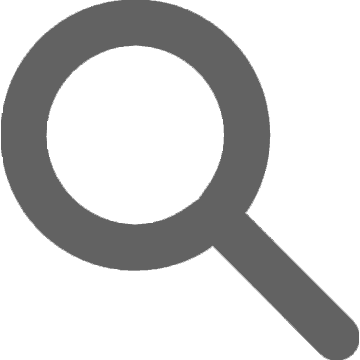
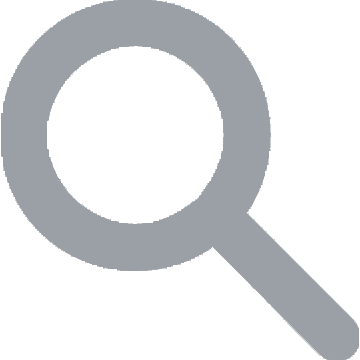
first page 100% done

diff --git a/style.css b/style.css
@@ -1,34 +1,70 @@
-body{
+#bo{
     background: #202124;
 }
-.main{            
-    position: fixed;
-    top: 50%;
-    left: 50%;
+.topr{
+    color: #ffffff;
+    font-family: arial;
+    font-size: 15px;
+    padding-right: 15px;
+    text-decoration: none;
 }
-.logo{
-    position: fixed;
-    top: 30%;
-    left: 50%;
-    transform: translate(-50%, -30%);
+#dots{
+    width: 35px;
+    padding-right: 15px;
 }
-.also{
+#avatar{
+    width: 50px;
+    padding-right: 15px;
+}
+#a1{
+    text-align: right;
+    margin-top: 5px;
+}
+#d2{
+    background-color: #171717;
+    height: 50px;
+    padding: 10px;
+    position: fixed;
+    bottom: 0;
+    left: 0;
+    right: 0;
+}
+.dre{
+    color: #999da2;
+    font-family: arial;
+    font-size: 15px;
+    text-decoration: none;
+    padding: 15px;
+}
+.dre:hover{ 
+    color: #999da2;
+    text-decoration: underline;
+}
+
+.but{
+    background-color: #303134;
+    border: 1px solid #303134;
+    border-radius: 5px;
     color: #e8eaed;
     font-family: arial;
     font-size: 15px;
+    margin: 10px 7px;
     padding: 0 15px;
+    line-height: 30px;
+    height: 40px;
+    min-width: 55px;
     text-align: center;
-    position: fixed;
-    top: 53%;
-    left: 44%;
+    cursor: pointer;
+    margin-bottom: 30px;
 }
 .bar{
+    margin-bottom: 15px;
     width: 600px;
     height: 50px;
     border-radius: 25px;
     background: #202124;
     border-style: solid;
-    border-color:#5f6368;
+    border-color: #5f6368;
     border-width: 1.5px;
     padding: 12px 50px;
     box-sizing: border-box;
@@ -42,99 +78,61 @@ body{
     border-color: #303134;
     background-color: #303134;
 }
-.sbox{
-    position: fixed;
-    top: 40%;
-    left: 50%;
-    transform: translate(-50%, -40%);
+.main{
+    position: absolute;
+    top: 50%;
+    bottom: 0;
+    left: 0;
+    right: 0;
+    margin: auto;
+    display: flex;
+    flex-direction: column;
+    height: 100%;
+    align-items: center;
 }
 .buttons{
-    position: fixed;
-    top: 45%;
-    left: 42%;
+    display: flex;
+    flex-direction: row;
+    justify-content: center;
 }
-.but{
-    background-color: #303134;
-    border: 1px solid #303134;
-    border-radius: 5px;
+.also{
     color: #e8eaed;
     font-family: arial;
     font-size: 15px;
-    margin: 10px 5px;
     padding: 0 15px;
-    line-height: 30px;
-    height: 40px;
-    min-width: 55px;
+    size: 15px;
+    font-family: arial;
     text-align: center;
-    cursor: pointer;
 }
-#topop{
-    padding-top: 10px;
-    padding-right: 10px;
-    text-align-last: right;
+.also:hover{
+        text-decoration: underline;
 }
-h1{
+#he{
     position: fixed;
     color: #bdc1c6;
     size: 15px;
     font-family: arial;
     font-size: 15px;
 }
-.lango{            
-    position: fixed;
+#logo{
+    margin-bottom: 15px;
+    width: 300px;
+    height: auto;
+}
+#fre{
     size: 15px;
     font-family: arial;
     font-size: 15px;
     color:#8ab4f8;
     text-decoration: none;
+    margin-left: 10px;
 }
-.lango:hover{
+#fre:hover{
     text-decoration: underline;
 }
-.topr{
-    color: #bdc1c6;
-    font-family: arial;
-    font-size: 15px;
-    padding-right: 15px;
-    text-decoration: none;
-}
-.topr:hover{
-    text-decoration: underline;
-    color: #bdc1c6;
-}
-#loopi{
-    position: fixed;
-    width: 3%;
-    height: auto;
-    top: 41%;
-    left: 5%;
-    transform: translate(-50%, -30%);
-}
-.dre{
-    color: #999da2;
-    font-family: arial;
-    font-size: 15px;
-    text-decoration: none;
-    padding: 15px;
-}
-.dre:hover{ 
-    color: #999da2;
-    text-decoration: underline;
-}
-.d2{
-    background-color: #171717;
-    height: 50px;
-    padding: 10px;
-    position: fixed;
-    bottom: 0;
-    left: 0;
-    right: 0;
-}
-#dots{
-    width: 2%;
-    padding-right: 15px;
-}
-#avatar{
-    width: 3%;
-    padding-right: 15px;
+#search{
+    width: 15px;
+    position: relative;
+    bottom: 3px;
+    right: 585px;
 }

diff --git a/index.html b/index.html
@@ -3,43 +3,40 @@
     <head>
        <title>Google</title>
        <link rel="shortcut icon" href="google.png" type="image/x-icon">
-       <meta name="viewport" content="width=device-width, initial-scale=1.0">
+       <link href="style.css" rel="stylesheet">
        <link href="https://cdn.jsdelivr.net/npm/bootstrap@5.2.0/dist/css/bootstrap.min.css" rel="stylesheet" integrity="sha384-gH2yIJqKdNHPEq0n4Mqa/HGKIhSkIHeL5AyhkYV8i59U5AR6csBvApHHNl/vI1Bx" crossorigin="anonymous">
-       <link rel="stylesheet" href="style.css">
-    </head>
-    <body>
-        <div id="topop">
+    </head> 
+    <body id="bo">
+        <div id="a1">
             <a class="topr" href="advanced.html">Advanced</a>
             <a class="topr" href="image.html">Image</a>
             <img id="dots" src="img.png" alt="">
             <a href="https://myaccount.google.com"><img id="avatar" src="avatar.png" alt=""></a>
         </div>
-        <div class="logo">
-            <img src="googlelogo_light_color_272x92dp.png" alt="Google">
-        </div>
         <div class="main">
+            <img id="logo" src="googlelogo_light_color_272x92dp.png" alt="Google">
             <form action="https://www.google.com/search">
                 <div class="sbox">
                     <input type="text" name="q" class="bar">
-                    <img id="loopi"src="search.png" alt="">
+                    <img src="search.png" alt="" id="search">
                 </div>
-                <div class="buttons">
+                <div class="buttons" style="display:flex;">
                     <input type="submit" value="Google Search" class="but">
                     <input type="submit" value="Im Feeling Lucky" class="but">
                 </div>
             </form>
+            <div class="buttons also">
+                <h1 id="he">Google offered in:<a class="lango" id="fre" href="https://www.google.fr">Français</a></h1>
+            </div>
         </div>
-        <div class="also">
-            <h1 style="position: fixed;">Google offered in:<a class="lango"href="https://www.google.fr">Français</a></h1>
-        </div>
-        <div class="d2">            
+        <div id="d2">            
             <table>
                 <thead>
                     <th><a class ="dre" href="https://about.google/?utm_source=google-TN&utm_medium=referral&utm_campaign=hp-footer&fg=1">About</a></th>
                     <th><a class ="dre" href="https://ads.google.com/intl/en/home/?subid=ww-ww-et-g-awa-a-g_hpafoot1_1!o2&utm_source=google.com&utm_medium=referral&utm_campaign=google_hpafooter&fg=1">Advertising</a></th>
                     <th><a class ="dre" href="https://www.google.com/intl/en/services/#?modal_active=none">Business</a></th>
                     <th><a class ="dre" style="border-right: 100px;" href="https://www.google.com/search/howsearchworks/?fg=1">How Search works</a></th>
-                    <th style="text-indent: 1240px;"><a class ="dre" href="https://policies.google.com/privacy?hl=en-TN&fg=1">Privacy</a></th>
+                    <th><a class ="dre" href="https://policies.google.com/privacy?hl=en-TN&fg=1">Privacy</a></th>
                     <th><a class ="dre" href="https://policies.google.com/terms?hl=en-TN&fg=1">Terms</a></th>
                 </thead>
             </table>
